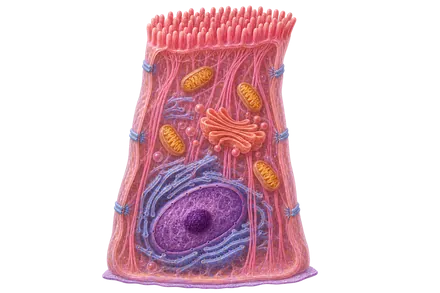
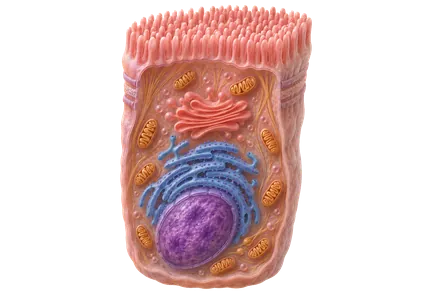
Use the v2 specimen illustrations
- Replace all seven specimen illustrations with the more detailed v2 set;
  cream backgrounds made transparent (border flood fill with soft edges),
  WebP and thumbnails regenerated
- Re-map every illustration hotspot to the new compositions; each
  hotspot's centre was checked to select its own structure
- Record the v2 prompts and the background clean-up in
  design/specimen-generation-prompts.json

diff --git a/specimens.js b/specimens.js
@@ -10,20 +10,20 @@ const specimenCatalog = {
     where: 'Photosynthetic tissues, such as the leaf mesophyll.',
     ids: ['nucleus', 'nucleolus', 'chloroplast', 'mitochondrion', 'rough-er', 'smooth-er', 'golgi', 'ribosomes', 'vacuole', 'membrane', 'wall', 'cytosol', 'peroxisome', 'cytoskeleton', 'vesicle'],
     spots: {
-      nucleus: [190, 110, 67],
-      nucleolus: [213, 129, 22],
-      chloroplast: [420, 83, 57],
-      mitochondrion: [704, 239, 44],
-      'rough-er': [116, 191, 48],
-      'smooth-er': [338, 58, 14],
-      golgi: [594, 350, 66],
-      ribosomes: [261, 163, 17],
-      vacuole: [450, 256, 104],
-      membrane: [678, 431, 18],
-      wall: [414, 518, 38],
-      cytosol: [752, 202, 16],
-      cytoskeleton: [366, 437, 20],
-      vesicle: [593, 268, 13]
+      nucleus: [212, 130, 70],
+      nucleolus: [250, 140, 20],
+      chloroplast: [507, 90, 58],
+      mitochondrion: [657, 167, 40],
+      'rough-er': [153, 207, 40],
+      'smooth-er': [353, 87, 30],
+      golgi: [123, 280, 45],
+      ribosomes: [220, 213, 15],
+      vacuole: [440, 247, 110],
+      membrane: [507, 480, 16],
+      wall: [467, 527, 35],
+      cytosol: [700, 247, 16],
+      cytoskeleton: [557, 445, 18],
+      vesicle: [565, 421, 14]
     }
   },
   leukocyte: {
@@ -35,15 +35,15 @@ const specimenCatalog = {
     where: 'Blood and tissues involved in immune defense.',
     ids: ['nucleus', 'mitochondrion', 'rough-er', 'golgi', 'ribosomes', 'lysosome', 'vesicle', 'membrane', 'cytosol'],
     spots: {
-      nucleus: [423, 114, 66],
-      mitochondrion: [535, 143, 20],
-      'rough-er': [245, 370, 58],
-      golgi: [512, 372, 44],
-      ribosomes: [246, 218, 15],
-      lysosome: [405, 330, 22],
-      vesicle: [490, 329, 11],
-      membrane: [664, 216, 23],
-      cytosol: [575, 261, 20]
+      nucleus: [400, 127, 62],
+      mitochondrion: [603, 230, 22],
+      'rough-er': [453, 360, 40],
+      golgi: [547, 330, 35],
+      ribosomes: [533, 143, 15],
+      lysosome: [417, 320, 18],
+      vesicle: [365, 420, 16],
+      membrane: [657, 253, 22],
+      cytosol: [353, 220, 18]
     }
   },
   neuron: {
@@ -55,15 +55,15 @@ const specimenCatalog = {
     where: 'The brain, spinal cord, and peripheral nervous system.',
     ids: ['soma', 'nucleus', 'dendrites', 'axon', 'myelin', 'terminals', 'mitochondrion', 'rough-er', 'membrane'],
     spots: {
-      soma: [300, 315, 65],
-      nucleus: [235, 268, 33],
-      dendrites: [155, 113, 45],
-      axon: [365, 280, 25],
-      myelin: [520, 285, 38],
-      terminals: [748, 262, 48],
-      mitochondrion: [295, 228, 17],
-      'rough-er': [220, 218, 24],
-      membrane: [187, 339, 19]
+      soma: [165, 305, 50],
+      nucleus: [203, 257, 40],
+      dendrites: [140, 87, 35],
+      axon: [333, 290, 20],
+      myelin: [460, 280, 35],
+      terminals: [773, 313, 40],
+      mitochondrion: [267, 223, 18],
+      'rough-er': [227, 200, 20],
+      membrane: [307, 247, 16]
     }
   },
   epithelial: {
@@ -75,15 +75,15 @@ const specimenCatalog = {
     where: 'Absorptive epithelia, including the lining of the small intestine.',
     ids: ['microvilli', 'nucleus', 'junctions', 'basement', 'mitochondrion', 'rough-er', 'golgi', 'membrane', 'cytoskeleton'],
     spots: {
-      microvilli: [414, 56, 73],
-      nucleus: [379, 424, 57],
-      junctions: [523, 250, 17],
-      basement: [407, 536, 52],
-      mitochondrion: [467, 180, 29],
-      'rough-er': [305, 334, 32],
-      golgi: [419, 258, 43],
-      membrane: [530, 398, 18],
-      cytoskeleton: [394, 126, 23]
+      microvilli: [407, 67, 60],
+      nucleus: [367, 440, 70],
+      junctions: [547, 177, 18],
+      basement: [393, 527, 25],
+      mitochondrion: [453, 170, 25],
+      'rough-er': [393, 313, 40],
+      golgi: [387, 220, 40],
+      membrane: [240, 293, 16],
+      cytoskeleton: [280, 160, 18]
     }
   },
   bacteria: {
@@ -95,15 +95,15 @@ const specimenCatalog = {
     where: 'Diverse habitats, including soil, water, and the bodies of other organisms.',
     ids: ['nucleoid', 'plasmid', 'bacterial-ribosomes', 'membrane', 'bacterial-wall', 'capsule', 'pili', 'flagellum', 'cytosol'],
     spots: {
-      nucleoid: [316, 288, 81],
-      plasmid: [500, 263, 23],
-      'bacterial-ribosomes': [438, 211, 21],
-      membrane: [402, 359, 16],
-      'bacterial-wall': [418, 374, 17],
-      capsule: [461, 383, 19],
-      pili: [297, 134, 26],
-      flagellum: [680, 176, 61],
-      cytosol: [229, 326, 17]
+      nucleoid: [393, 253, 75],
+      plasmid: [585, 259, 22],
+      'bacterial-ribosomes': [313, 337, 18],
+      membrane: [347, 379, 13],
+      'bacterial-wall': [467, 363, 14],
+      capsule: [467, 413, 20],
+      pili: [180, 160, 22],
+      flagellum: [747, 193, 30],
+      cytosol: [200, 313, 16]
     }
   },
   animal: {
@@ -115,19 +115,19 @@ const specimenCatalog = {
     where: 'Animal tissues; organelle abundance varies with cell function.',
     ids: ['nucleus', 'nucleolus', 'mitochondrion', 'rough-er', 'smooth-er', 'golgi', 'ribosomes', 'membrane', 'cytosol', 'lysosome', 'peroxisome', 'centrosome', 'cytoskeleton', 'vesicle'],
     spots: {
-      nucleus: [482, 120, 85],
-      nucleolus: [482, 152, 29],
-      mitochondrion: [686, 320, 57],
-      'rough-er': [480, 279, 54],
-      'smooth-er': [175, 160, 62],
-      golgi: [245, 297, 74],
-      ribosomes: [398, 249, 17],
-      membrane: [766, 414, 22],
-      cytosol: [655, 440, 18],
-      lysosome: [527, 350, 30],
-      centrosome: [175, 389, 34],
-      cytoskeleton: [263, 456, 24],
-      vesicle: [380, 366, 17]
+      nucleus: [233, 153, 85],
+      nucleolus: [287, 160, 30],
+      mitochondrion: [193, 380, 52],
+      'rough-er': [313, 280, 45],
+      'smooth-er': [543, 177, 50],
+      golgi: [493, 360, 75],
+      ribosomes: [253, 307, 15],
+      membrane: [787, 287, 20],
+      cytosol: [740, 400, 18],
+      lysosome: [80, 270, 25],
+      centrosome: [427, 103, 30],
+      cytoskeleton: [667, 427, 22],
+      vesicle: [637, 297, 14]
     }
   },
   muscle: {
@@ -139,13 +139,13 @@ const specimenCatalog = {
     where: 'Skeletal muscles attached to the skeleton.',
     ids: ['myofibril', 'sarcomere', 'sarcoplasmic-reticulum', 't-tubule', 'mitochondrion', 'nucleus', 'membrane'],
     spots: {
-      myofibril: [639, 302, 49],
-      sarcomere: [347, 229, 28],
-      'sarcoplasmic-reticulum': [412, 278, 27],
-      't-tubule': [494, 333, 32],
-      mitochondrion: [520, 275, 27],
-      nucleus: [544, 122, 32],
-      membrane: [417, 77, 29]
+      myofibril: [110, 347, 45],
+      sarcomere: [373, 247, 25],
+      'sarcoplasmic-reticulum': [413, 140, 25],
+      't-tubule': [453, 260, 25],
+      mitochondrion: [360, 341, 28],
+      nucleus: [180, 220, 35],
+      membrane: [313, 143, 22]
     }
   }
 };
